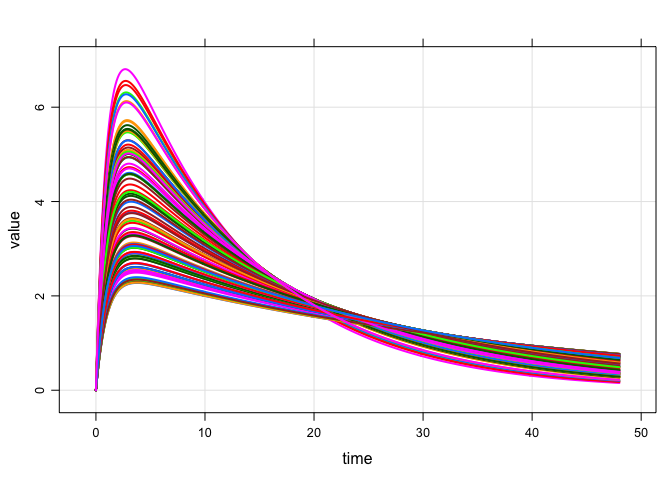
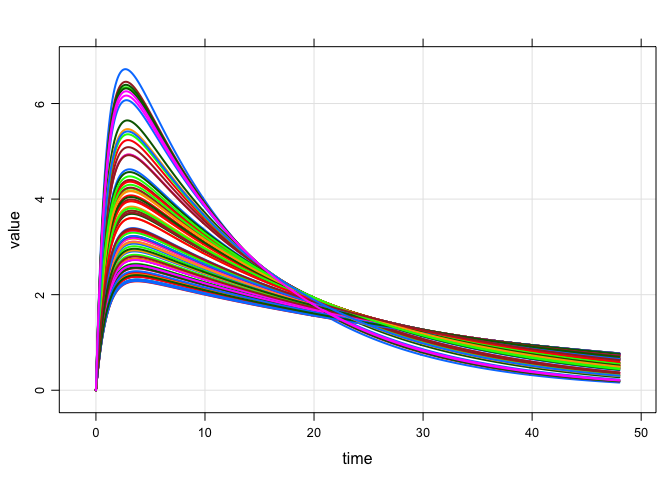
README

diff --git a/misc_demo/covset2.md b/misc_demo/covset2.md
@@ -74,12 +74,12 @@ mod %>% idata_set(idata, covset="cov1") %>% simargs %>% lapply(head)
 
     . $idata
     .   ID STUDY  b SEX      AGE        WT     FLAG
-    . 1  1     1 11   1 35.01608  59.03215 35.33668
-    . 2  2     1 11   1 73.74770 136.49541 35.33668
-    . 3  3     0 11   1 44.67265  78.34530 39.56706
-    . 4  4     1 11   0 52.68216  94.36432 35.33668
-    . 5  5     0 11   1 25.56362  40.12725 39.56706
-    . 6  6     1 11   0 63.15400 115.30800 35.33668
+    . 1  1     0 11   0 35.04489  59.08979 22.65316
+    . 2  2     0 11   0 32.02988  53.05976 22.65316
+    . 3  3     1 11   1 31.30732  51.61465 23.96778
+    . 4  4     0 11   1 73.40492 135.80983 22.65316
+    . 5  5     0 11   1 55.78038 100.56075 22.65316
+    . 6  6     1 11   1 51.32341  91.64681 23.96778
 
 Working with `covset`
 ---------------------
@@ -139,16 +139,16 @@ idata %>% mrgsolve:::mutate_random(cov2,envir=e)
     . # A tibble: 100 × 6
     .       ID      AGE STUDY     FLAG       WT   SEX
     .    <int>    <dbl> <dbl>    <dbl>    <dbl> <dbl>
-    . 1      1 42.57292     0 25.82872 96.09889     0
-    . 2      2 36.01879     0 25.82872 75.18640     1
-    . 3      3 66.03805     1 29.04194 95.47189     1
-    . 4      4 50.59217     1 29.04194 81.14880     0
-    . 5      5 46.65063     1 29.04194 74.43486     0
-    . 6      6 64.31989     0 25.82872 51.80531     1
-    . 7      7 50.22581     0 25.82872 84.33909     0
-    . 8      8 36.79871     0 25.82872 82.68266     0
-    . 9      9 58.29132     0 25.82872 50.10891     1
-    . 10    10 26.72953     1 29.04194 93.35832     1
+    . 1      1 38.83624     1 38.98358 71.18658     1
+    . 2      2 38.55740     0 27.57983 86.84400     1
+    . 3      3 55.65744     1 38.98358 69.13599     1
+    . 4      4 47.50965     0 27.57983 79.28044     0
+    . 5      5 56.29386     1 38.98358 64.85414     1
+    . 6      6 79.26381     0 27.57983 73.57297     1
+    . 7      7 60.91842     1 38.98358 90.66608     1
+    . 8      8 72.80971     0 27.57983 86.09766     1
+    . 9      9 74.62937     0 27.57983 81.74370     1
+    . 10    10 55.19484     0 27.57983 87.28695     1
     . # ... with 90 more rows
 
 Other ways to use `$ENV`
@@ -195,7 +195,7 @@ mod %>% ev(object="e") %>% mrgsim(end=120) %>% plot
 
 ![](img/covset-unnamed-chunk-15-1.png)
 
-Build idata set with covariates from a function in `$ENV`
+Build `idata_set` with covariates from a function in `$ENV`
 
 ``` r
 mod %>% 
